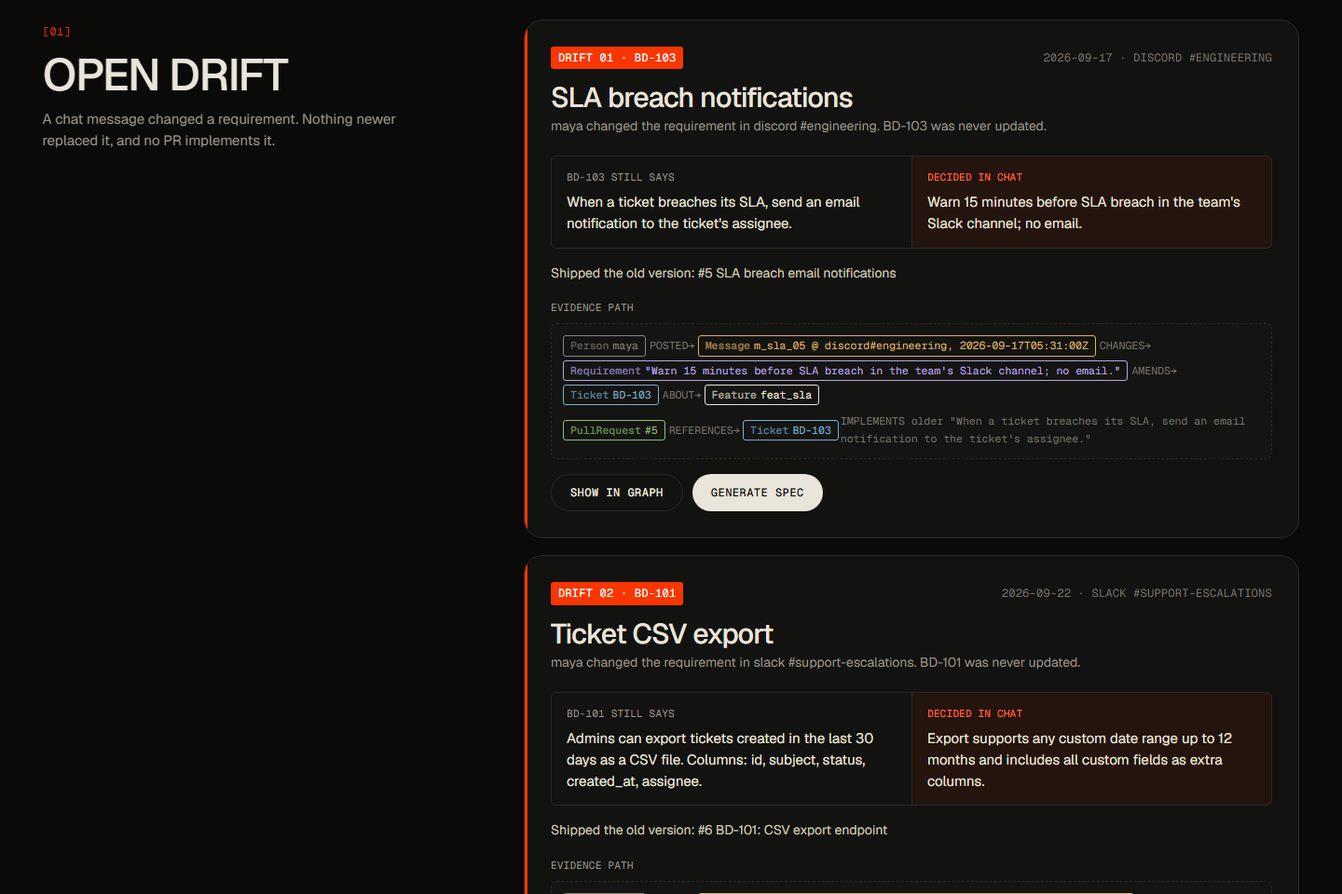
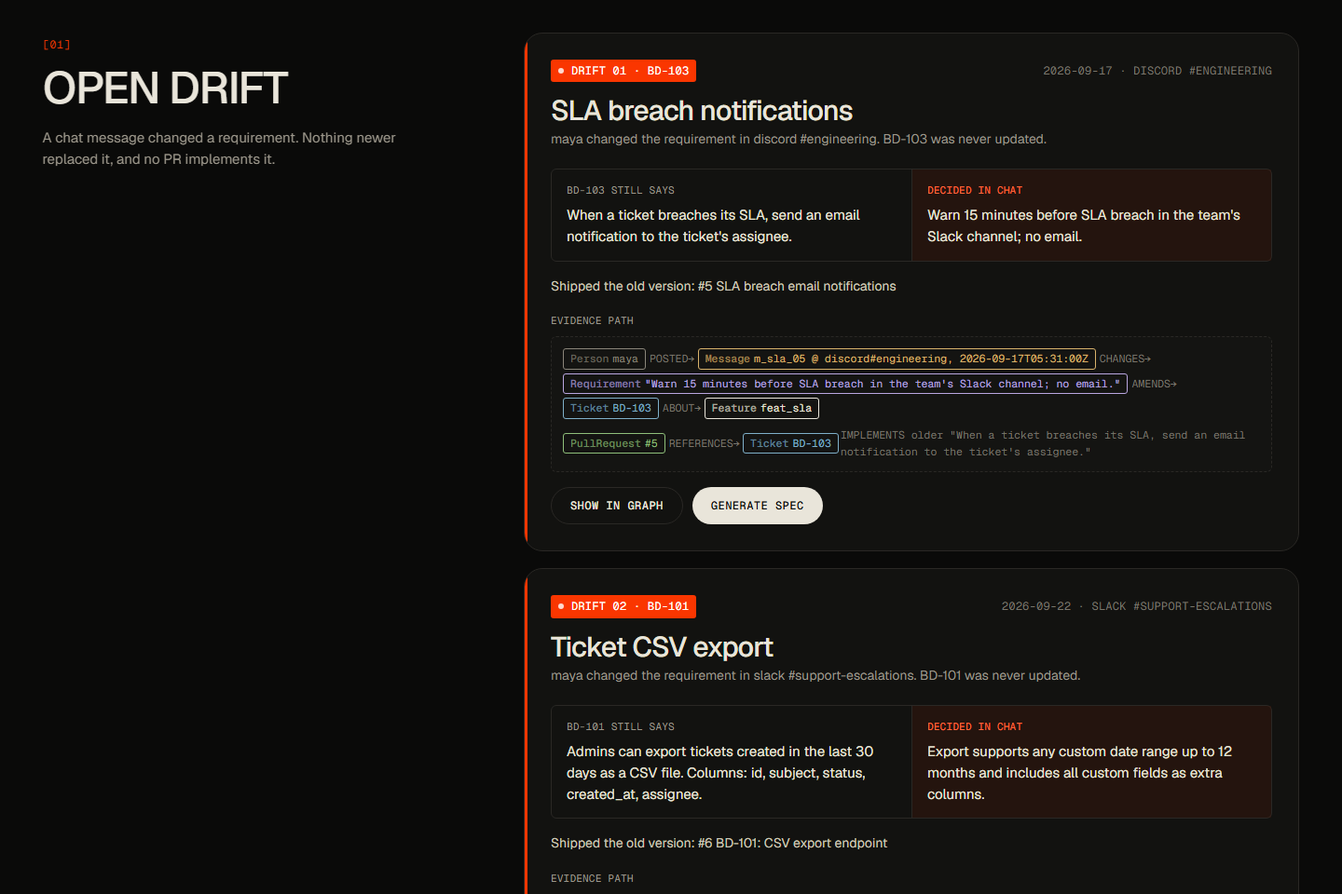
UI: animated hero chain, metrics band, ticker, motion polish, offline ask
- Hero headline reveals per character; animated 'where it broke' chain diagram
- Metrics band with count-up numbers and a relationship ticker
- Drift cards: pulsing tag, edge draw-in, diff sweep, staggered evidence-path chips
- Graph: pulsing drift node and scan line; nav section highlight and scroll progress
- Ask works without an LLM key by running graph tools directly (connection, experts, drift, history)
- Fixes: open-drift count race, syslog columns on narrow screens; ?static mode for screenshots

diff --git a/frontend/style.css b/frontend/style.css
@@ -69,7 +69,7 @@ a { color: inherit; }
 .spec dd { margin: 0; font-size: 14px; overflow-wrap: anywhere; }
 .spec .warn { color: var(--accent); }
 
-.syslog { list-style: none; padding: 0; margin: clamp(32px, 5vw, 56px) 0 0; display: grid; grid-template-columns: repeat(auto-fit, minmax(220px, 1fr)); gap: 6px 24px; color: var(--note); }
+.syslog { list-style: none; padding: 0; margin: clamp(32px, 5vw, 56px) 0 0; display: grid; grid-template-columns: repeat(auto-fit, minmax(min(220px, 100%), 1fr)); gap: 6px 24px; color: var(--note); }
 .syslog li { display: flex; gap: 10px; opacity: 0; transform: translateY(6px); transition: opacity .5s var(--ease), transform .5s var(--ease); }
 .syslog li.on { opacity: 1; transform: none; }
 .syslog b { color: var(--muted); font-weight: 400; }
@@ -194,3 +194,143 @@ select.field { width: auto; min-width: 220px; }
 }
 .static .reveal, .static .syslog li { opacity: 1 !important; transform: none !important; transition: none !important; }
 .static .loader { display: none; }
+
+/* ===== hero headline: per-character reveal ===== */
+.hero__title .line { display: block; }
+.hero__title .ch { display: inline-block; opacity: 0; transform: translateY(.45em) rotate(4deg); filter: blur(6px);
+                   animation: chIn .9s var(--ease) forwards; animation-delay: calc(var(--i) * 28ms + 150ms); }
+.hero__title .sp { display: inline-block; width: .25em; }
+@keyframes chIn { to { opacity: 1; transform: none; filter: none; } }
+
+/* ===== hero chain diagram (blueprint annotation) ===== */
+.chain { margin: clamp(40px, 6vw, 72px) 0 0; display: grid; grid-template-columns: 1fr auto 1fr auto 1fr auto 1fr; align-items: stretch; position: relative; padding: 28px 0 0; }
+.chain figcaption { position: absolute; top: 0; left: 0; color: var(--note); font-size: 10.5px; }
+.chain__node { border: 1px solid var(--line); border-radius: var(--r-ctl); padding: 14px 16px; background: var(--card); display: grid; gap: 6px; min-width: 0;
+               opacity: 0; transform: translateY(12px); transition: transform .35s var(--ease), border-color .35s; }
+.chain.in .chain__node { animation: rise .8s var(--ease) forwards; }
+.chain.in .chain__node:nth-child(3) { animation-delay: .35s; } .chain.in .chain__node:nth-child(5) { animation-delay: .7s; } .chain.in .chain__node:nth-child(7) { animation-delay: 1.05s; }
+.chain__node:hover { transform: translateY(-3px); border-color: var(--muted); }
+.chain__node span { color: var(--muted); font-size: 10.5px; }
+.chain__node b { font-weight: 500; font-size: 15px; line-height: 1.3; letter-spacing: -.01em; }
+.chain__node em { font-style: normal; color: var(--note); font-size: 10.5px; }
+.chain__node--hot { border-color: var(--accent); background: var(--accent-bg); }
+.chain.in .chain__node--hot { animation: rise .8s var(--ease) .35s forwards, glow 2.4s ease-in-out 1.6s infinite; }
+.chain__node--hot span, .chain__node--hot em { color: var(--accent-ink); }
+.chain__edge { position: relative; width: clamp(48px, 6vw, 92px); display: grid; place-items: center; }
+.chain__edge::before { content: ""; position: absolute; left: 4px; right: 8px; top: 50%; height: 1px; background: var(--muted); transform-origin: left; transform: scaleX(0); }
+.chain__edge::after { content: ""; position: absolute; right: 4px; top: calc(50% - 4px); border: 4px solid transparent; border-left-color: var(--muted); opacity: 0; }
+.chain.in .chain__edge::before { animation: draw .5s var(--ease) forwards; }
+.chain.in .chain__edge::after { animation: fade .2s linear forwards; }
+.chain.in .chain__edge:nth-child(2)::before, .chain.in .chain__edge:nth-child(2)::after { animation-delay: .2s; }
+.chain.in .chain__edge:nth-child(4)::before, .chain.in .chain__edge:nth-child(4)::after { animation-delay: .55s; }
+.chain.in .chain__edge:nth-child(6)::before, .chain.in .chain__edge:nth-child(6)::after { animation-delay: .9s; }
+.chain__edge span { position: relative; z-index: 1; background: var(--bg); padding: 2px 4px; font-size: 9.5px; color: var(--muted); transform: translateY(-14px); }
+.chain__edge--broken::before { background: repeating-linear-gradient(90deg, var(--accent) 0 5px, transparent 5px 9px); }
+.chain__edge--broken::after { border-left-color: var(--accent); }
+.chain__edge--broken span { color: var(--accent-ink); }
+.chain.in .chain__edge--broken span { animation: shake .5s 1.3s 2; }
+@keyframes rise { to { opacity: 1; transform: none; } }
+@keyframes draw { to { transform: scaleX(1); } }
+@keyframes fade { to { opacity: 1; } }
+@keyframes glow { 0%, 100% { box-shadow: 0 0 0 0 var(--accent-bg); } 50% { box-shadow: 0 0 0 8px var(--accent-bg); } }
+@keyframes shake { 0%, 100% { transform: translateY(-14px); } 25% { transform: translate(-3px, -14px); } 75% { transform: translate(3px, -14px); } }
+
+/* ===== ticker ===== */
+.ticker { overflow: hidden; border-bottom: 1px solid var(--line-2); padding: 12px 0; color: var(--note); font-size: 11px;
+          mask-image: linear-gradient(90deg, transparent, #000 8%, #000 92%, transparent); }
+.ticker__track { display: flex; gap: 48px; width: max-content; animation: marquee 40s linear infinite; }
+.ticker__track span b { color: var(--accent); font-weight: 400; margin-right: 8px; }
+.ticker:hover .ticker__track { animation-play-state: paused; }
+@keyframes marquee { to { transform: translateX(-50%); } }
+
+/* ===== metrics band ===== */
+.metrics { display: grid; grid-template-columns: repeat(5, minmax(0, 1fr)); border-bottom: 1px solid var(--line-2); }
+.metric { padding: clamp(24px, 3vw, 40px) var(--gut); border-left: 1px solid var(--line-2); position: relative; overflow: hidden; }
+.metric:first-child { border-left: 0; }
+.metric::after { content: ""; position: absolute; left: 0; bottom: 0; height: 2px; width: 0; background: var(--ink); transition: width .5s var(--ease); }
+.metric:hover::after { width: 100%; }
+.metric .mono { color: var(--muted); font-size: 10.5px; }
+.metric b { display: block; font-weight: 300; font-size: clamp(40px, 5.2vw, 76px); line-height: 1; letter-spacing: -.05em; margin-top: 10px; font-variant-numeric: tabular-nums; }
+.metric small { display: block; color: var(--note); font-size: 12.5px; margin-top: 8px; }
+.metric--hot b { color: var(--accent); }
+.metric--hot::after { background: var(--accent); }
+
+/* ===== nav ===== */
+.nav__links a { position: relative; }
+.nav__links a.active { color: var(--ink); }
+.nav__links a::after { content: ""; position: absolute; left: 0; right: 0; bottom: -6px; height: 1px; background: var(--accent); transform: scaleX(0); transform-origin: left; transition: transform .4s var(--ease); }
+.nav__links a.active::after, .nav__links a:hover::after { transform: scaleX(1); }
+.progress { position: fixed; top: 0; left: 0; height: 2px; background: var(--accent); width: 0; z-index: 30; }
+
+/* ===== drift cards: alive ===== */
+.violation { transition: transform .4s var(--ease), border-color .4s, box-shadow .4s; }
+.violation:hover { transform: translateY(-3px); border-color: var(--muted); box-shadow: 0 18px 40px -24px rgba(0, 0, 0, .6); }
+.violation__tag { position: relative; }
+.violation__tag::before { content: ""; display: inline-block; width: 6px; height: 6px; border-radius: 50%; background: #fff; margin-right: 8px; vertical-align: 1px; animation: blinkDot 1.4s ease-in-out infinite; }
+@keyframes blinkDot { 50% { opacity: .2; } }
+.violation::before { transform-origin: top; transform: scaleY(0); transition: transform .9s var(--ease) .2s; }
+.violation.in::before { transform: scaleY(1); }
+.diff .now { position: relative; overflow: hidden; }
+.diff .now::after { content: ""; position: absolute; inset: 0; background: linear-gradient(100deg, transparent 30%, rgba(250, 54, 0, .12) 50%, transparent 70%);
+                    transform: translateX(-100%); }
+.violation.in .diff .now::after { animation: sweep 1.6s var(--ease) .6s; }
+@keyframes sweep { to { transform: translateX(100%); } }
+
+/* evidence path chips: stagger in */
+.path .n, .path .r, .path .t { opacity: 0; transform: translateY(4px); animation: rise .45s var(--ease) forwards; animation-delay: calc(var(--k, 0) * 45ms + 150ms); }
+.path .n { transition: background .2s; }
+.path .n:hover { background: color-mix(in srgb, currentColor 14%, transparent); }
+
+/* buttons: shine */
+.btn { position: relative; overflow: hidden; }
+.btn::after { content: ""; position: absolute; inset: 0; background: linear-gradient(110deg, transparent 35%, rgba(255, 255, 255, .35) 50%, transparent 65%); transform: translateX(-120%); }
+.btn:hover::after { transition: transform .7s var(--ease); transform: translateX(120%); }
+
+/* canvas scan line */
+.canvas::after { content: ""; position: absolute; left: 0; right: 0; height: 80px; top: -80px; pointer-events: none;
+                 background: linear-gradient(180deg, transparent, var(--grid), transparent); animation: scan 6s linear infinite; }
+@keyframes scan { to { top: 100%; } }
+
+/* section headings: underline draw */
+.sec__label h2 { background: linear-gradient(var(--accent), var(--accent)) left bottom / 0 2px no-repeat; padding-bottom: 6px; transition: background-size 1s var(--ease) .3s; }
+.sec__label.in h2 { background-size: 48px 2px; }
+
+/* ask fallback + experts */
+.notice { border: 1px dashed var(--line); border-radius: var(--r-ctl); padding: 14px 16px; color: var(--soft); font-size: 14px; margin-bottom: 14px; animation: rise .5s var(--ease); }
+.notice b { color: var(--ink); font-weight: 500; }
+.experts { list-style: none; padding: 0; margin: 8px 0 0; counter-reset: i; }
+.experts li { counter-increment: i; padding: 10px 0 10px 34px; border-bottom: 1px solid var(--line); position: relative; opacity: 0; animation: rise .5s var(--ease) forwards; }
+.experts li:nth-child(2) { animation-delay: .08s; } .experts li:nth-child(3) { animation-delay: .16s; } .experts li:nth-child(4) { animation-delay: .24s; } .experts li:nth-child(5) { animation-delay: .32s; }
+.experts li::before { content: counter(i, decimal-leading-zero); position: absolute; left: 0; top: 12px; font: 11px var(--mono); color: var(--accent); }
+.muted { color: var(--muted); }
+#answer > * { animation: rise .5s var(--ease) both; }
+
+/* retro items stagger */
+.retro-cols li { opacity: 0; animation: rise .5s var(--ease) forwards; animation-delay: calc(var(--k, 0) * 60ms); }
+
+@media (max-width: 900px) {
+  .chain { grid-template-columns: minmax(0, 1fr); }
+  .chain__edge { width: auto; height: 44px; }
+  .chain__edge::before { left: 50%; right: auto; top: 4px; bottom: 8px; width: 1px; height: auto; transform-origin: top; transform: scaleY(0); }
+  .chain.in .chain__edge::before { animation-name: drawY; }
+  .chain__edge::after { left: calc(50% - 4px); right: auto; top: auto; bottom: 0; border-left-color: transparent; border-top-color: var(--muted); }
+  .chain__edge--broken::after { border-top-color: var(--accent); border-left-color: transparent; }
+  .chain__edge--broken::before { background: repeating-linear-gradient(180deg, var(--accent) 0 5px, transparent 5px 9px); }
+  .chain__edge span { transform: translateX(52px); }
+  .metrics { grid-template-columns: repeat(2, minmax(0, 1fr)); }
+  .metric:nth-child(odd) { border-left: 0; }
+  .metric { border-top: 1px solid var(--line-2); }
+}
+@keyframes drawY { to { transform: scaleY(1); } }
+
+/* static / reduced motion: show everything, no motion */
+.static .hero__title .ch, .static .chain__node, .static .path .n, .static .path .r, .static .path .t, .static .retro-cols li, .static .experts li { opacity: 1; transform: none; filter: none; animation: none; }
+.static .chain__edge::before { transform: none; animation: none; } .static .chain__edge::after { opacity: 1; animation: none; }
+.static .violation::before { transform: none; } .static .sec__label h2 { background-size: 48px 2px; }
+.static .ticker__track, .static .canvas::after { animation: none; }
+@media (prefers-reduced-motion: reduce) {
+  .hero__title .ch, .chain__node, .path .n, .path .r, .path .t, .retro-cols li, .experts li { opacity: 1; transform: none; filter: none; animation: none !important; }
+  .chain__edge::before { transform: none; animation: none !important; } .chain__edge::after { opacity: 1; }
+  .ticker__track, .canvas::after, .violation__tag::before { animation: none !important; }
+  .violation::before { transform: none; }
+}

diff --git a/frontend/app.js b/frontend/app.js
@@ -2,7 +2,7 @@ const $ = (s) => document.querySelector(s);
 const esc = (s) => String(s ?? "").replace(/[&<>"]/g, (c) => ({ "&": "&amp;", "<": "&lt;", ">": "&gt;", '"': "&quot;" }[c]));
 const link = (url, text) => (url && !url.startsWith("scenario://") ? `<a href="${esc(url)}" target="_blank" rel="noopener">${esc(text)}</a>` : esc(text));
 const css = (v) => getComputedStyle(document.documentElement).getPropertyValue(v).trim();
-let cy, currentFeature;
+let cy, currentFeature, driftCount = null;
 const TYPES = { Feature: "--n-feature", Ticket: "--n-ticket", Requirement: "--n-req", Message: "--n-msg", PullRequest: "--n-pr", Person: "--n-person", Decision: "--accent" };
 
 async function api(path, body) {
@@ -29,17 +29,18 @@ $("#theme-toggle").addEventListener("click", () => {
 
 /* ---------- graph path strings -> chips ---------- */
 function renderPath(str) {
+  let k = 0;
   const tokens = str.split(/(<-\[:[A-Z_|]+\]-|-\[:[A-Z_|]+\]->|\s;\s)/);
   return `<div class="path">${tokens.map((t) => {
     if (!t) return "";
     if (t.trim() === ";") return `<span class="sep"></span>`;
     const rel = t.match(/^(<-|-)\[:([A-Z_|]+)\](->|-)$/);
-    if (rel) return `<span class="r">${rel[1] === "<-" ? "←" : ""}${esc(rel[2])}${rel[3] === "->" ? "→" : ""}</span>`;
+    if (rel) return `<span class="r" style="--k:${k++}">${rel[1] === "<-" ? "←" : ""}${esc(rel[2])}${rel[3] === "->" ? "→" : ""}</span>`;
     return t.split(/(\([^)]*\))/).map((part) => {
       const m = part.match(/^\((\w+)\s+([\s\S]*)\)$/);
-      if (m) return `<span class="n" style="color:${css(TYPES[m[1]] || "--muted")}" title="${esc(m[2])}"><b>${esc(m[1])}</b>${esc(m[2])}</span>`;
+      if (m) return `<span class="n" style="--k:${k++};color:${css(TYPES[m[1]] || "--muted")}" title="${esc(m[2])}"><b>${esc(m[1])}</b>${esc(m[2])}</span>`;
       const txt = part.trim().replace(/^,\s*/, "");
-      return txt ? `<span class="t">${esc(txt)}</span>` : "";
+      return txt ? `<span class="t" style="--k:${k++}">${esc(txt)}</span>` : "";
     }).join("");
   }).join("")}</div>`;
 }
@@ -60,6 +61,19 @@ async function loadStats() {
     ["005", `Record ${s.nodes.find((n) => n.label === "Decision")?.n ?? 0} decisions`],
     ["006", "Run drift query"],
   ];
+  const n = (l) => s.nodes.find((x) => x.label === l)?.n ?? 0;
+  const metrics = [
+    ["Messages", n("Message"), "Slack + Discord"], ["Tickets", n("Ticket"), "Linear-style"], ["Pull requests", n("PullRequest"), "GitHub"],
+    ["Decisions", n("Decision"), "found in chat"], ["Open drift", driftCount ?? 0, "requirements", true],
+  ];
+  $("#metrics").innerHTML = metrics.map(([k, v, sub, hot]) => `<div class="metric${hot ? " metric--hot" : ""}"><span class="mono">${esc(k)}</span>
+    <b data-count="${v}"${hot ? ' id="metric-drift"' : ""}>${v}</b><small>${esc(sub)}</small></div>`).join("");
+  const tick = [
+    ["NODES", total(s.nodes)], ["RELATIONSHIPS", total(s.relationships)],
+    ...s.relationships.slice(0, 10).map((r) => [r.type, r.n]),
+  ].map(([k, v]) => `<span><b>${esc(k)}</b>${esc(v)}</span>`).join("");
+  $("#ticker").innerHTML = tick + tick;
+  countUp();
   $("#syslog").innerHTML = log.map(([i, t]) => `<li><b>${i}</b>${esc(t)}</li>`).join("");
   [...document.querySelectorAll("#syslog li")].forEach((li, i) => setTimeout(() => li.classList.add("on"), 250 + i * 140));
 }
@@ -70,6 +84,9 @@ async function loadDrift() {
   $("#spec-drift").innerHTML = rows.length
     ? `<span class="warn">${rows.length} requirement${rows.length > 1 ? "s" : ""} · ${[...new Set(rows.map((d) => d.feature_name))].join(", ")}</span>`
     : "none";
+  driftCount = rows.length;
+  const md = $("#metric-drift");
+  if (md) { md.dataset.count = rows.length; countUp(md); }
   if (!rows.length) { $("#drift-list").innerHTML = `<p class="empty">No open drift. Tickets and PRs match the latest decisions.</p>`; return; }
   $("#drift-list").innerHTML = rows.map((d, i) => `
     <article class="violation reveal">
@@ -141,6 +158,13 @@ async function showGraph(feature) {
               levelWidth: () => 1 },
     minZoom: 0.4, maxZoom: 2.2,
   });
+  const hot = cy.nodes("[?drift]");
+  const pulse = () => {
+    if (!cy || cy.destroyed() || !hot.length) return;
+    hot.animate({ style: { "border-opacity": 0.6, "border-width": 10 } }, { duration: 900, easing: "ease-in-out-sine",
+      complete: () => hot.animate({ style: { "border-opacity": 0.15, "border-width": 4 } }, { duration: 900, easing: "ease-in-out-sine", complete: pulse }) });
+  };
+  if (!document.documentElement.classList.contains("static")) pulse();
   cy.on("mouseover", "node", (e) => e.target.connectedEdges().addClass("hover"));
   cy.on("mouseout", "node", (e) => e.target.connectedEdges().removeClass("hover"));
   cy.on("tap", "node", (e) => {
@@ -169,8 +193,71 @@ async function ask(q) {
       <div class="chips" style="margin:6px 0 0">${r.tool_calls.map((t) => `<span class="chip mono">${esc(t.tool)} ${esc(Object.values(t.args).join(", "))}</span>`).join("") || "<span class='mono'>none</span>"}</div>
       ${r.paths.length ? `<div class="mono kicker">Graph paths</div>${r.paths.slice(0, 6).map(renderPath).join("")}` : ""}`;
   } catch (e) {
-    $("#answer").innerHTML = `<p class="error">${esc(e.message)}</p>`;
+    if (!/DEEPSEEK|Service Unavailable/i.test(e.message)) { $("#answer").innerHTML = `<p class="error">${esc(e.message)}</p>`; return; }
+    try { await askOffline(q); } catch (err) { $("#answer").innerHTML = `<p class="error">${esc(err.message)}</p>`; }
   }
+}
+
+/* No LLM configured: run the graph tools directly, so the section still answers from the graph. */
+async function askOffline(q) {
+  const ql = q.toLowerCase();
+  let html = `<div class="notice"><b>LLM not configured</b>: running the graph tools directly. Set DEEPSEEK_API_KEY for written answers.</div>`;
+  const conn = q.match(/([\w:-]+)\s+(?:connected to|to|→)\s+([\w:-]+)\??\s*$/i);
+  const norm = (x) => (/^(pr|bd)-\d+$/i.test(x) ? x.toUpperCase() : x.toLowerCase());
+  if (conn && /connect|→/.test(ql)) {
+    const r = await api(`/api/connect?a=${encodeURIComponent(norm(conn[1]))}&b=${encodeURIComponent(norm(conn[2]))}`);
+    html += `<div class="mono kicker">how_connected(${esc(norm(conn[1]))}, ${esc(norm(conn[2]))})</div>` + (r.paths.map(renderPath).join("") || "<p class='muted'>No path within 7 hops.</p>");
+  } else {
+    const fs = await api("/api/features");
+    const f = fs.find((x) => (ql.includes("sla") && x.id.includes("sla")) || (ql.includes("export") && x.id.includes("export"))
+      || (ql.includes("dark") && x.id.includes("dark")) || x.tickets.some((t) => ql.includes(t.toLowerCase())));
+    if (/who|know|expert/.test(ql) && f) {
+      const ex = await api(`/api/features/${f.id}/experts`);
+      html += `<div class="mono kicker">who_knows(${esc(f.id)})</div><ol class="experts">${ex.map((p) => `<li><b>${esc(p.name)}</b> <span class="muted">${esc(p.role)} · score ${p.score} · ${p.items} items</span></li>`).join("")}</ol>`;
+    } else if (f) {
+      const [d, h] = await Promise.all([api(`/api/drift?feature=${f.id}`), api(`/api/features/${f.id}/history`)]);
+      html += `<div class="mono kicker">drift_for_feature(${esc(f.id)})</div>` + (d.length
+        ? d.map((x) => `<p class="answer">⚠ ${esc(x.requirement_text)} ${esc(x.ticket)} still says “${esc(x.ticket_text)}”.</p>` + renderPath(x.path)).join("")
+        : `<p class="answer">No open drift on ${esc(f.name)}.</p>`);
+      html += `<div class="mono kicker">decision_history(${esc(f.id)})</div>` + h.paths.slice(0, 6).map(renderPath).join("");
+    } else {
+      const d = await api("/api/drift");
+      html += `<div class="mono kicker">drift_for_feature()</div>` + d.map((x) => `<p class="answer">⚠ <b>${esc(x.feature_name)}</b>: ${esc(x.requirement_text)}</p>` + renderPath(x.path)).join("");
+    }
+  }
+  $("#answer").innerHTML = html;
+}
+
+function countUp(only) {
+  const els = only ? [only] : [...document.querySelectorAll("[data-count]")];
+  els.forEach((el) => {
+    const target = Number(el.dataset.count);
+    if (!Number.isFinite(target)) return;
+    if (document.documentElement.classList.contains("static")) { el.textContent = target; return; }
+    const t0 = performance.now();
+    const step = (t) => { const p = Math.min(1, (t - t0) / 1100); el.textContent = Math.round(target * (1 - Math.pow(1 - p, 3))); if (p < 1) requestAnimationFrame(step); };
+    requestAnimationFrame(step);
+  });
+}
+
+/* split hero headline into characters */
+document.querySelectorAll("[data-split]").forEach((line, li) => {
+  let i = li * 16;
+  line.innerHTML = [...line.textContent].map((c) => (c === " " ? `<span class="sp"></span>` : `<span class="ch" style="--i:${i++}">${esc(c)}</span>`)).join("");
+});
+
+/* nav: highlight the section in view; scroll progress bar */
+document.body.insertAdjacentHTML("afterbegin", `<div class="progress" id="progress"></div>`);
+addEventListener("scroll", () => {
+  const h = document.documentElement;
+  $("#progress").style.width = `${(h.scrollTop / Math.max(1, h.scrollHeight - h.clientHeight)) * 100}%`;
+}, { passive: true });
+if ("IntersectionObserver" in window) {
+  const links = [...document.querySelectorAll(".nav__links a")];
+  const nio = new IntersectionObserver((es) => es.forEach((x) => {
+    if (x.isIntersecting) links.forEach((a) => a.classList.toggle("active", a.getAttribute("href") === `#${x.target.id}`));
+  }), { rootMargin: "-45% 0px -50% 0px" });
+  document.querySelectorAll("main .sec").forEach((sec) => nio.observe(sec));
 }
 
 /* ---------- retro ---------- */
@@ -179,12 +266,13 @@ async function loadRetro(sprint) {
   const r = await api(`/api/retro/${sprint}`);
   const status = (d) => d.shipped_in.length ? `<span class="badge ok">shipped ${d.shipped_in.map((n) => "#" + n).join(", ")}</span>`
     : d.superseded_by === "ticket" ? `<span class="badge">in ticket</span>` : `<span class="badge warn">not shipped</span>`;
+  let k = 0;
   $("#retro").innerHTML = `<div class="retro-cols">
-    <div><h3>Decided · ${r.decided.length}</h3><ol>${r.decided.map((d) => `<li>${esc(d.text)} ${status(d)}
+    <div><h3>Decided · ${r.decided.length}</h3><ol>${r.decided.map((d) => `<li style="--k:${k++}">${esc(d.text)} ${status(d)}
       <span class="src">${esc(d.by)} · ${esc(d.at.slice(0, 10))} · ${esc(d.ticket)} · ${link(d.source, `${d.platform} #${d.channel}`)}</span></li>`).join("") || "<li>No decisions in chat</li>"}</ol></div>
-    <div><h3>Shipped · ${r.shipped.length}</h3><ol>${r.shipped.map((p) => `<li>${link(p.url, `#${p.pr}`)} ${esc(p.title)}
+    <div><h3>Shipped · ${r.shipped.length}</h3><ol>${r.shipped.map((p) => `<li style="--k:${k++}">${link(p.url, `#${p.pr}`)} ${esc(p.title)}
       <span class="src">${esc(p.author)} · ${esc(p.tickets.join(", ") || "no ticket")}${p.link.includes("hard") ? "" : " · linked by " + esc(p.link.join(", "))}</span></li>`).join("")}</ol></div>
-    <div><h3>Diverged · ${r.diverged.length}</h3><ol>${r.diverged.map((d) => `<li><b>${esc(d.feature_name)}</b>: decided “${esc(d.requirement_text)}”
+    <div><h3>Diverged · ${r.diverged.length}</h3><ol>${r.diverged.map((d) => `<li style="--k:${k++}"><b>${esc(d.feature_name)}</b>: decided “${esc(d.requirement_text)}”
       <span class="src">${esc(d.ticket)} still says “${esc(d.ticket_text)}”${d.stale_prs.length ? ` · ${d.stale_prs.map((p) => "#" + p.pr).join(", ")} shipped old version` : ""}</span></li>`).join("") || "<li>Nothing diverged</li>"}</ol></div>
   </div>`;
 }
@@ -262,4 +350,7 @@ $("#sim-form").addEventListener("submit", simulate);
 })();
 
 /* ?static: no animations (screenshots, slow machines) */
-if (new URLSearchParams(location.search).has("static")) document.documentElement.classList.add("static");
+if (new URLSearchParams(location.search).has("static")) {
+  document.documentElement.classList.add("static");
+  document.querySelectorAll(".reveal").forEach((el) => el.classList.add("in"));
+}

diff --git a/frontend/index.html b/frontend/index.html
@@ -33,7 +33,7 @@
 
   <header class="hero" id="top">
     <div class="hero__eyebrow mono reveal">Company Brain · FalkorDB context graph</div>
-    <h1 class="hero__title reveal">Decided in chat.<br><span class="accent-text">Never shipped.</span></h1>
+    <h1 class="hero__title" id="hero-title" aria-label="Decided in chat. Never shipped."><span class="line" data-split>Decided in chat.</span><span class="line accent-text" data-split>Never shipped.</span></h1>
     <div class="hero__grid">
       <p class="hero__lede reveal">Requirements change in Slack and Discord threads. Tickets don't follow, and PRs ship the old version.
         This graph links every message, ticket and pull request to the same feature, and shows you the exact path where they split.</p>
@@ -45,8 +45,21 @@
         <div><dt>Extraction</dt><dd id="spec-build">…</dd></div>
       </dl>
     </div>
+    <figure class="chain reveal" aria-label="How drift happens">
+      <div class="chain__node"><span class="mono">[A] Message</span><b>“Make it 12 months, not 30 days.”</b><em class="mono">slack #support · 09-22</em></div>
+      <div class="chain__edge"><span class="mono">CHANGES</span></div>
+      <div class="chain__node chain__node--hot"><span class="mono">[B] Requirement</span><b>12-month range + custom fields</b><em class="mono">newest · not superseded</em></div>
+      <div class="chain__edge"><span class="mono">AMENDS</span></div>
+      <div class="chain__node"><span class="mono">[C] Ticket BD-101</span><b>“Last 30 days as CSV”</b><em class="mono">never updated</em></div>
+      <div class="chain__edge chain__edge--broken"><span class="mono">IMPLEMENTS ✕</span></div>
+      <div class="chain__node"><span class="mono">[D] PR #6</span><b>Shipped the 30-day export</b><em class="mono">merged 09-25</em></div>
+      <figcaption class="mono">Drift = [B] has no newer version and nothing implements it</figcaption>
+    </figure>
     <ol class="syslog mono reveal" id="syslog"></ol>
   </header>
+
+  <div class="ticker mono" aria-hidden="true"><div class="ticker__track" id="ticker"></div></div>
+  <section class="metrics" id="metrics" aria-label="Graph metrics"></section>
 
   <main>
     <section class="sec" id="drift">
